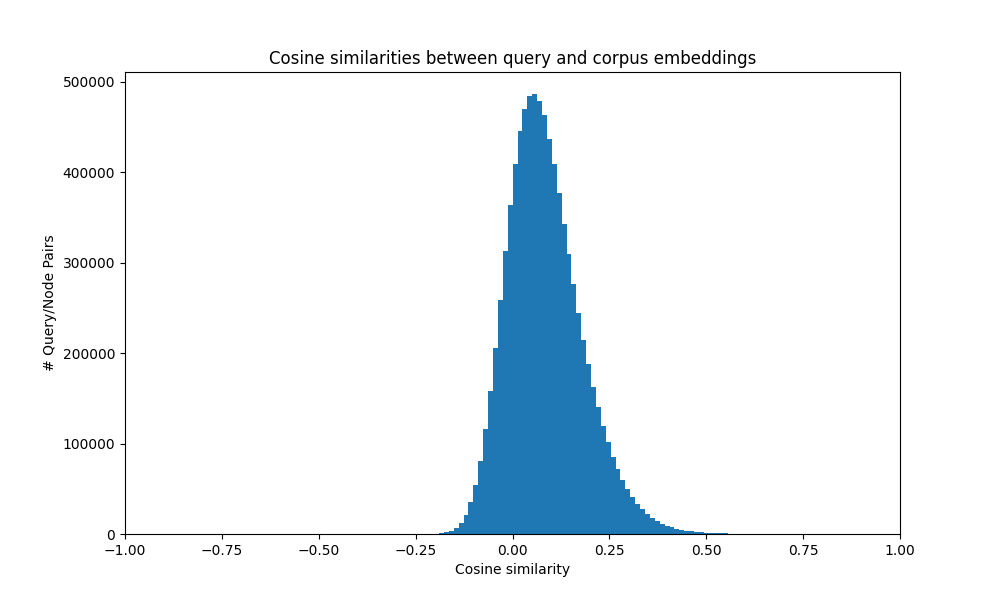
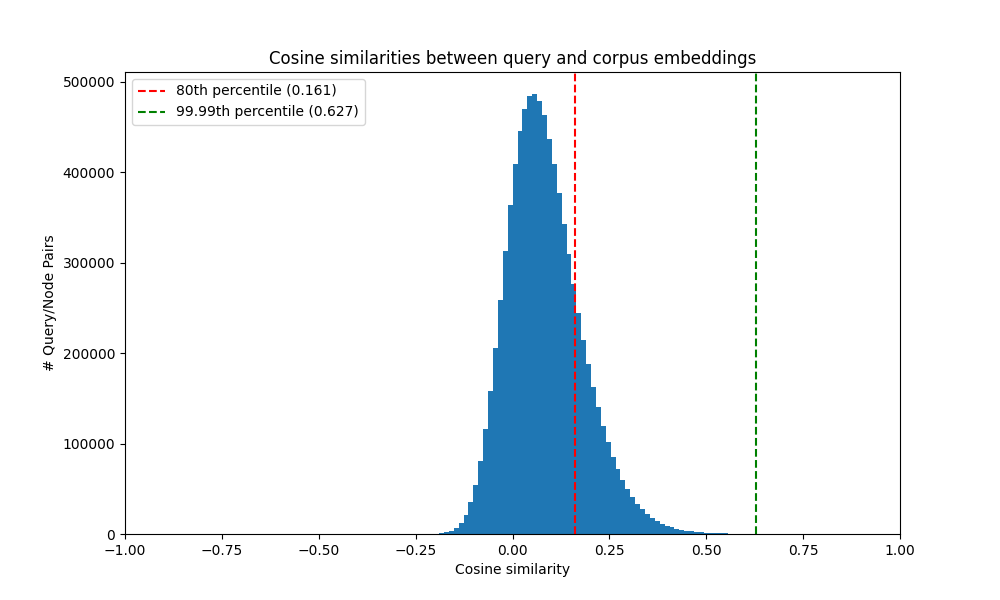
ready for experiment with percentile-based scaling

Changed region(s): [[0.124, 0.12, 0.372, 0.21]]

diff --git a/src/train.py b/src/train.py
@@ -5,6 +5,7 @@ import torch
 from torch.utils.data import DataLoader
 import data_process.split_data as st
 import data_process.data_loader as dl
+import data_process.helpers as hp
 from model.sbert import SentenceTransformer, losses
 from model.sbert.evaluation import EmbeddingSimilarityEvaluator, SimilarityFunction
 import compute_metrics.metric as ms
@@ -47,6 +48,9 @@ cosine_range = config.get("cossim_mapping_range", [0, 1])
 loss_alpha = float(config.get("loss_alpha", 1))
 loss_beta = float(config.get("loss_beta", 0))
 
+device = "cuda" if torch.cuda.is_available() else "cpu"
+target_device = torch.device(device)
+
 taxonomy = dl.TaxoDataset(
     name, data_path, raw=True, partition_pattern=partition_pattern, seed=seed
 )
@@ -57,15 +61,30 @@ data_prep = st.Dataset(
     seed,
     cosine_range=cosine_range,
 )
+
 model_name = config["model_name"]
-
-device = "cuda" if torch.cuda.is_available() else "cpu"
-target_device = torch.device(device)
-
 if torch.cuda.is_available():
     model = SentenceTransformer.SentenceTransformer(model_name, device="cuda")
 else:
     model = SentenceTransformer.SentenceTransformer(model_name)
+
+if config.get("cossim_mapping_range_percentile", None) is not None:
+    corpus_embeddings = model.encode(
+        data_prep.corpus, convert_to_tensor=True, show_progress_bar=True
+    )
+    query_embeddings = model.encode(data_prep.test_queries, convert_to_tensor=True)
+    cosine_range = hp.compute_cosine_ranges(
+        config.get("cossim_mapping_range_percentile"),
+        query_embeddings,
+        corpus_embeddings,
+    )
+    data_prep = st.Dataset(
+        taxonomy,
+        sampling_method,
+        neg_number,
+        seed,
+        cosine_range=cosine_range,
+    )
 
 g = torch.Generator()
 g.manual_seed(0)
@@ -93,6 +112,7 @@ train_loss = losses.CosineSimilarityLoss(
     modified_loss=bool(config.get("loss_modified", "false") == "true"),
     hyperbolic=bool(config.get("hyperbolic", "false") == "true"),
     hyperbolic_curvature=float(config.get("hyperbolic_curvature", 1.0)),
+    cosine_absolute=bool(config.get("cosine_absolute", "false") == "true"),
 )
 if config.get("hyperbolic", "false") == "true":
     optimizer_class = geoopt.optim.RiemannianAdam
@@ -134,6 +154,9 @@ if config.get("hyperbolic", "false") == "true":
     score_function = lambda x, y: hyperbolic_cosine_similarity(x, y, c)
 else:
     score_function = util.cos_sim
+
+if config.get("cosine_absolute", "false") == "true":
+    score_function = lambda x, y: torch.abs(score_function(x, y))
 
 (
     all_targets_val,

diff --git a/src/plot_cosine_similarities.py b/src/plot_cosine_similarities.py
@@ -94,10 +94,40 @@ hist_data = pd.DataFrame({
 })
 hist_data.to_csv(error_analysis_dir + '/cosine_similarity_bins.csv', index=False)
 
+# calculate value from 0 to 1 that 80% of cosine similarities are less than
+cosine_similarities_sorted = np.sort(cosine_similarities)
+percentile_80 = np.percentile(cosine_similarities_sorted, 80)
+top_percentile = np.percentile(cosine_similarities_sorted, 99.99)
+
 plt.hist(cosine_similarities, bins=bin_edges)
+plt.axvline(percentile_80, color='r', linestyle='--', label="80th percentile ({:.3f})".format(percentile_80))
+plt.axvline(top_percentile, color='g', linestyle='--', label="99.99th percentile ({:.3f})".format(top_percentile))
 # change x axis range
 plt.xlim(-1, 1)
 plt.xlabel("Cosine similarity")
 plt.ylabel("# Query/Node Pairs")
 plt.title("Cosine similarities between query and corpus embeddings")
+plt.legend()
 plt.savefig(plot_filename)
+
+
+bin_edges = np.linspace(min(np.abs(cosine_similarities)), max(np.abs(cosine_similarities)), num_bins + 1)
+
+# calculate value from 0 to 1 that 80% of cosine similarities are less than
+cosine_similarities_sorted = np.sort(np.abs(cosine_similarities))
+percentile_80 = np.percentile(cosine_similarities_sorted, 80)
+top_percentile = np.percentile(cosine_similarities_sorted, 99.99)
+
+# clear plot
+plt.clf()
+
+plt.hist(np.abs(cosine_similarities), bins=bin_edges)
+plt.axvline(percentile_80, color='r', linestyle='--', label="80th percentile ({:.3f})".format(percentile_80))
+plt.axvline(top_percentile, color='g', linestyle='--', label="99.99th percentile ({:.3f})".format(top_percentile))
+# change x axis range
+plt.xlim(0, 1)
+plt.xlabel("Cosine similarity")
+plt.ylabel("# Query/Node Pairs")
+plt.title("Absolute cosine similarities between query and corpus embeddings")
+plt.legend()
+plt.savefig(error_analysis_dir + "/absolute_embedding_cosine_similarities.png")

diff --git a/src/model/sbert/losses/CosineSimilarityLoss.py b/src/model/sbert/losses/CosineSimilarityLoss.py
@@ -35,7 +35,9 @@ def lorentzian_inner_product(u, v, c=1.0):
 
 def lorentz_norm(u, c=1.0):
     if type(u) is np.ndarray:
-        return np.sqrt(np.clip(-lorentzian_inner_product(u, u, c), a_min=1e-5, a_max=None))
+        return np.sqrt(
+            np.clip(-lorentzian_inner_product(u, u, c), a_min=1e-5, a_max=None)
+        )
     inner_prod = lorentzian_inner_product(u, u, c)
     return torch.sqrt(torch.clamp(-inner_prod, min=1e-5))
 
@@ -81,6 +83,7 @@ class CosineSimilarityLoss(nn.Module):
         modified_loss=False,
         hyperbolic=False,
         hyperbolic_curvature=1.0,
+        cosine_absolute=False,
     ):
         super(CosineSimilarityLoss, self).__init__()
         self.model = model
@@ -90,6 +93,7 @@ class CosineSimilarityLoss(nn.Module):
         self.modified_loss = modified_loss
         self.hyperbolic = hyperbolic
         self.hyperbolic_curvature = hyperbolic_curvature
+        self.cosine_absolute = cosine_absolute
 
     def forward(self, sentence_features: Iterable[Dict[str, Tensor]], labels: List):
         # pdb.set_trace()
@@ -116,6 +120,9 @@ class CosineSimilarityLoss(nn.Module):
             )
         else:
             similarity_measure = torch.cosine_similarity
+
+        if self.cosine_absolute:
+            similarity_measure = lambda x, y: torch.abs(similarity_measure(x, y))
 
         if self.modified_loss:
             query_corpus_cossim = similarity_measure(query_embedding, corpus_embedding)

diff --git a/src/data_process/helpers.py b/src/data_process/helpers.py
@@ -14,3 +14,15 @@ def set_seed(seed):
     np.random.seed(seed)
     torch.manual_seed(seed)
     torch.cuda.manual_seed_all(seed)
+
+
+def compute_cosine_ranges(range_percentile, query_embeddings, node_embeddings):
+    cosine_similarities = (
+        torch.nn.functional.cosine_similarity(query_embeddings, node_embeddings)
+        .cpu()
+        .numpy()
+    )
+    cosine_similarities_sorted = np.sort(cosine_similarities)
+    percentile_A = np.percentile(cosine_similarities_sorted, range_percentile[0])
+    percentile_B = np.percentile(cosine_similarities_sorted, range_percentile[1])
+    return [percentile_A, percentile_B]

diff --git a/src/evaluate.py b/src/evaluate.py
@@ -122,6 +122,8 @@ if config.get("hyperbolic", "false") == "true":
 
 else:
     score_function = util.cos_sim
+if config.get("cosine_absolute", "false") == "true":
+    score_function = lambda x, y: torch.abs(score_function(x, y))
 preds = propagation(
     corpus_embeddings, torch.tensor(range(len(nodeIdsCorpus)), device=target_device)
 )
